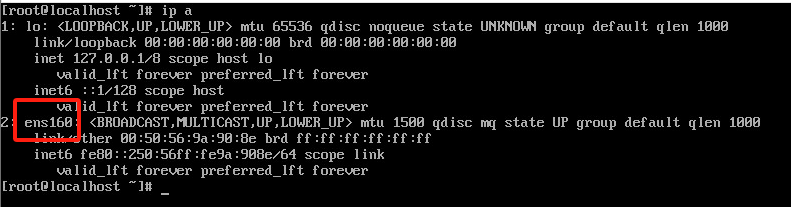
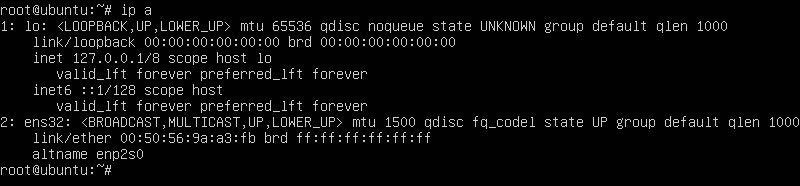
Update Configure the IP of the Failback Transition Host

Changed region(s): [[0.0, 0.0, 1.0, 0.9409], [0.182, 0.8871, 0.2124, 0.9409]]

diff --git a/src/userguide/poc/failback-agent-source-pre-settings.md b/src/userguide/poc/failback-agent-source-pre-settings.md
@@ -50,7 +50,7 @@ ip a
 #### Clear network configuration information
 
 ```shell
-ip addr flush dev eth0
+ip addr flush dev ens32 && ip link set ens32 down && ip link set ens32 up
 ```
 
 Configure a IP address and gateway
@@ -60,7 +60,7 @@ Configure with example information. Please replace the IP address/mask [192.168.
 :::
 
 ```shell
-ip addr add 192.168.x.x/20 dev ens160 && ip route add default via 192.168.0.1
+ip addr add 192.168.x.x/20 dev ens32 && ip route add default via 192.168.0.1 dev ens32
 ```
 
 #### View network configuration

diff --git a/src/zh/userguide/poc/failback-agent-source-pre-settings.md b/src/zh/userguide/poc/failback-agent-source-pre-settings.md
@@ -50,7 +50,7 @@ ip a
 #### 清除网络配置信息
 
 ```shell
-ip addr flush dev eth0
+ip addr flush dev ens32 && ip link set ens32 down && ip link set ens32 up
 ```
 
 配置临时IP
@@ -60,7 +60,7 @@ ip addr flush dev eth0
 :::
 
 ```shell
-ip addr add 192.168.x.x/20 dev ens160 && ip route add default via 192.168.0.1
+ip addr add 192.168.x.x/20 dev ens32 && ip route add default via 192.168.0.1 dev ens32
 ```
 
 #### 查看网络配置
